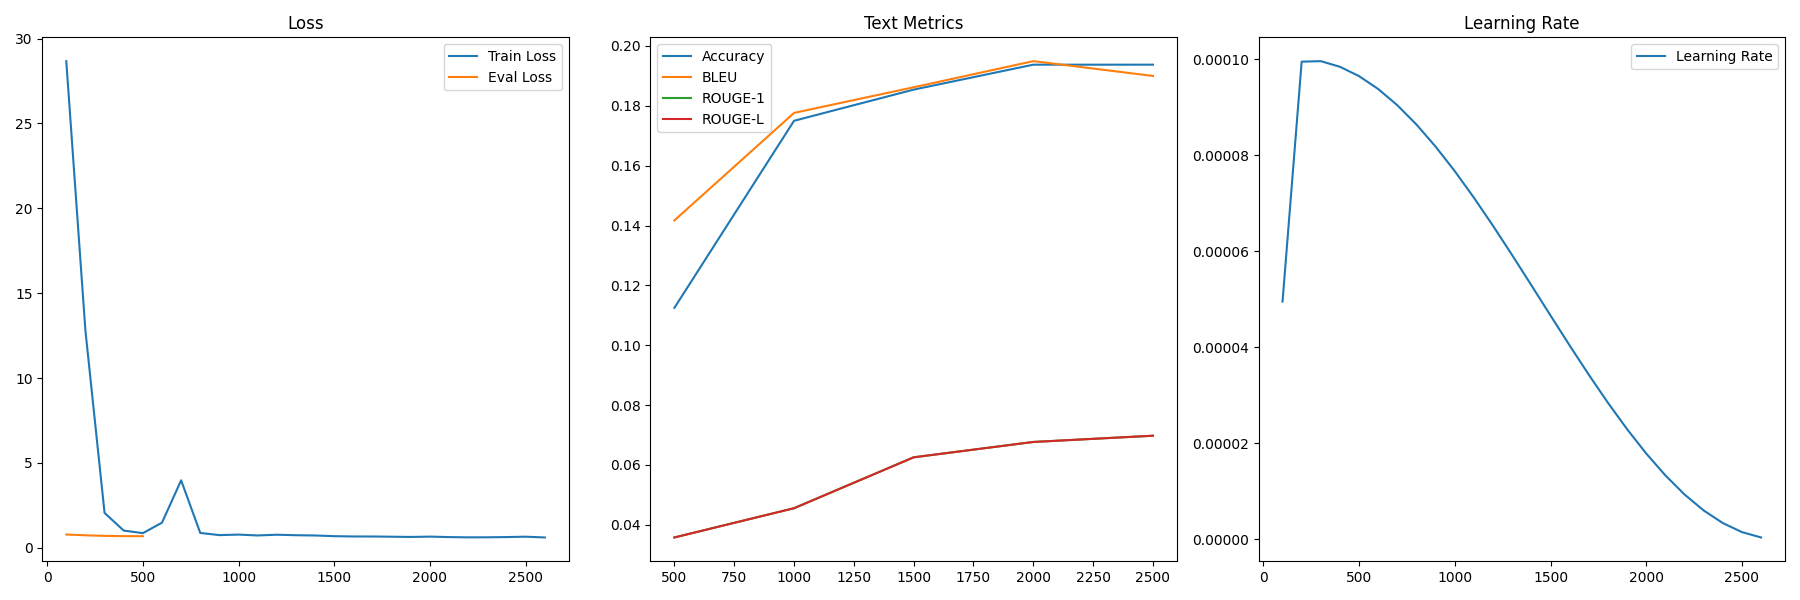
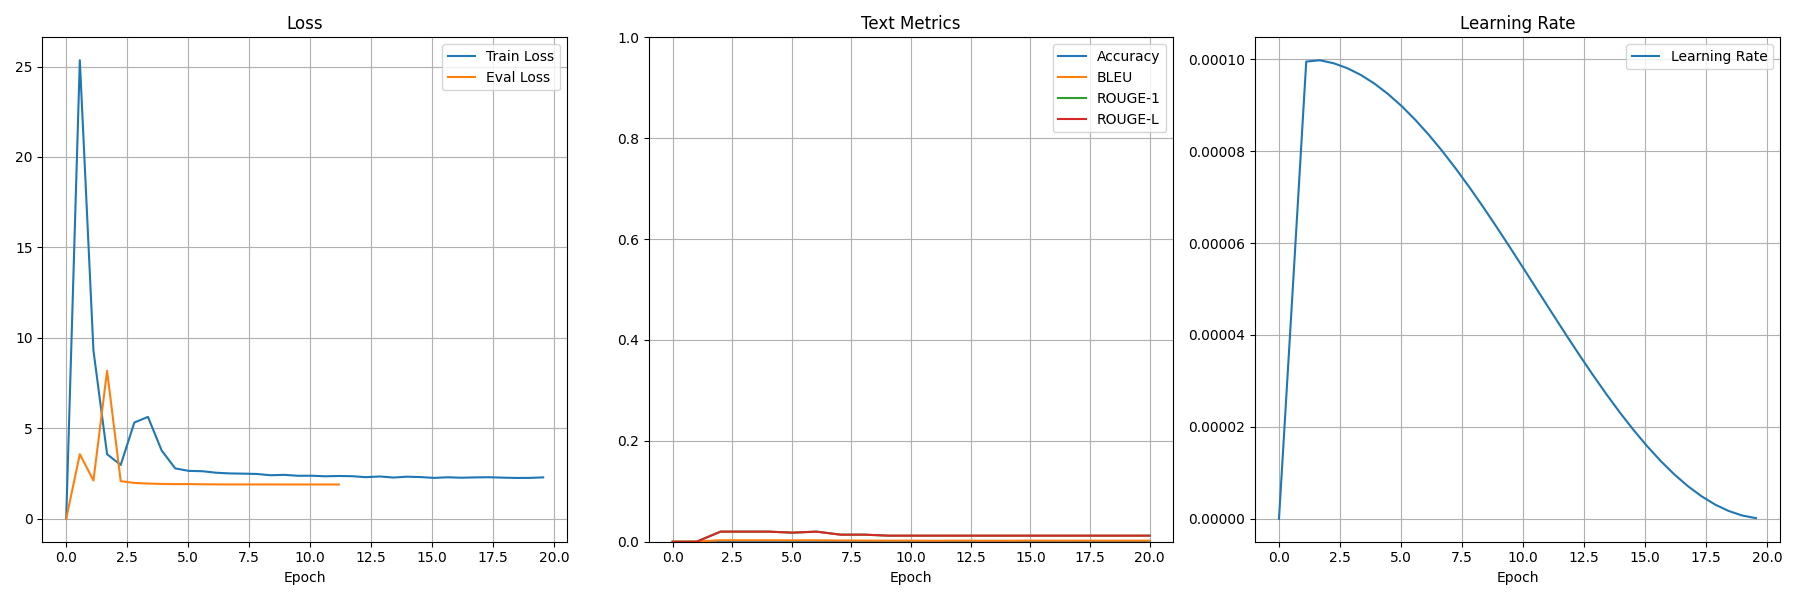
some changes

diff --git a/rework/testset.py b/rework/testset.py
@@ -1,0 +1,143 @@
+import json
+import random
+
+users = [
+    "Нет учётной записи в СЭД ТУСУР",
+    "Ошибка входа в систему",
+    "Требуется доступ к корпоративной почте",
+    "Не удаётся установить ПО MathCad",
+    "Проблемы с подключением к VPN",
+    "Не работает электронная подпись",
+    "Не могу скачать файлы с портала",
+    "Требуется продление лицензии Windows",
+    "Возникает ошибка 1004 при входе",
+    "Потерян доступ к ФДО ТУСУР",
+    "Забыли пароль от MS Office",
+    "Проблема с активацией Visual Studio",
+    "Требуется подключение к удалённому рабочему столу",
+    "Не отображается курс в ФДО",
+    "Ошибка при отправке документов",
+    "Вопрос по тарифу ПО",
+    "Сбой работы Outlook",
+    "Запросить доступ к базе данных",
+    "Установить новый принтер",
+    "Запросить сертификат безопасности",
+    "Проблема с авторизацией на сайте",
+    "Требуется доступ к Zoom",
+    "Ошибка обновления ПО",
+    "Требуется помощь с настройкой роутера",
+    "Не работает загрузка файлов",
+    "Проблемы с загрузкой домашнего задания",
+    "Проблема с лицензией на MathCad",
+    "Требуется новый аккаунт в системе",
+    "Перенос почты на другой сервер",
+    "Возникает ошибка при запуске 1С",
+    "Не приходит письмо с подтверждением",
+    "Проблема с подключением к Wi-Fi",
+    "Ошибка синхронизации календаря",
+    "Запрос на восстановление данных",
+    "Не открывается учебный материал",
+    "Требуется перенос данных между аккаунтами",
+    "Проблема с PDF-документом",
+    "Ошибка загрузки результатов экзамена",
+    "Проблема с доступом к облаку",
+    "Не удаётся активировать продукт",
+    "Вопрос по политике безопасности",
+    "Требуется консультация по ПО",
+    "Не работает кнопка отправки",
+    "Ошибка доступа к серверу",
+    "Сбросить настройки безопасности",
+    "Проблема с получением SMS-кода",
+    "Вопрос по работе портала",
+    "Требуется замена оборудования",
+    "Ошибка при установке драйвера",
+]
+
+answers = [
+    "Учетная запись создана, письмо с учетными данными выслано на почту: [EMAIL]",
+    "Ошибка устранена, попробуйте снова войти.",
+    "Доступ к почте предоставлен. Инструкция выслана на почту.",
+    "ПО MathCad установлено. Проверьте работоспособность.",
+    "Доступ к VPN открыт. Проверьте параметры подключения.",
+    "Настроена электронная подпись, можно пользоваться.",
+    "Возможность скачивания файлов восстановлена.",
+    "Лицензия Windows продлена на 1 год.",
+    "Ошибка 1004 исправлена, повторите попытку.",
+    "Доступ к ФДО восстановлен.",
+    "Пароль для MS Office отправлен на указанную почту.",
+    "Visual Studio активирована.",
+    "Доступ к удалённому рабочему столу предоставлен.",
+    "Курс теперь отображается в вашем аккаунте.",
+    "Отправка документов успешно настроена.",
+    "Вопрос по тарифу обработан, подробности отправлены.",
+    "Работа Outlook восстановлена.",
+    "Доступ к базе данных открыт.",
+    "Новый принтер установлен и готов к работе.",
+    "Сертификат безопасности выдан.",
+    "Авторизация на сайте восстановлена.",
+    "Доступ к Zoom предоставлен.",
+    "ПО успешно обновлено.",
+    "Роутер настроен, доступ к сети есть.",
+    "Загрузка файлов теперь работает корректно.",
+    "Загрузка домашнего задания восстановлена.",
+    "Лицензия на MathCad продлена.",
+    "Аккаунт в системе создан, детали на почте.",
+    "Перенос почты выполнен.",
+    "Ошибка при запуске 1С устранена.",
+    "Письмо с подтверждением отправлено повторно.",
+    "Wi-Fi подключение восстановлено.",
+    "Синхронизация календаря работает.",
+    "Данные восстановлены.",
+    "Учебный материал доступен для просмотра.",
+    "Данные перенесены между аккаунтами.",
+    "PDF-документ открыт без ошибок.",
+    "Результаты экзамена успешно загружены.",
+    "Доступ к облаку предоставлен.",
+    "Продукт активирован.",
+    "Информация по политике безопасности отправлена.",
+    "Консультация по ПО проведена.",
+    "Кнопка отправки работает.",
+    "Доступ к серверу восстановлен.",
+    "Настройки безопасности сброшены.",
+    "SMS-код отправлен повторно.",
+    "Вопрос по порталу обработан.",
+    "Оборудование заменено.",
+    "Драйвер установлен успешно.",
+]
+
+categories = [
+    "Электронный документооборот",
+    "1С",
+    "Техническая проблема на рабочем месте сотрудника",
+    "Автоматизированные информационные системы ТУСУРа",
+    "Не могу определитьНичего не подходит",
+    "Антиплагиат.ВУЗ",
+    "Получение лицензионного ПО",
+    "Получение корпоративной почты",
+    "Веб-ресурсы ТУСУР",
+    "Заявка на размещение публикаций",
+    "Предложения изменений в информационные системы",
+    "Мобильные приложения ТУСУР",
+]
+
+testset = []
+for i in range(500):
+    user_msg = random.choice(users)
+    answer = random.choice(answers)
+    cat = random.choice(categories)
+    ticket_id = 7000 + i  # Можно делать уникальные ID
+
+    testset.append(
+        {
+            "text": f"Категория: {cat}\nПользователь: {user_msg}\nОператор: ",
+            "label": answer,
+            "category_title": cat,
+            "ticket_id": ticket_id,
+        }
+    )
+
+# Сохраняем в файл (если нужно)
+with open("testset.json", "w", encoding="utf-8") as f:
+    json.dump(testset, f, ensure_ascii=False, indent=2)
+
+print("Готово! 500 синтетических тестовых объектов сгенерировано.")

diff --git a/rework/learn_rut5base.py b/rework/learn_rut5base.py
@@ -24,24 +24,24 @@ class LogCallback(TrainerCallback):
         self.tokenizer = tokenizer
         self.examples = raw_data[:5]
 
-    def on_step_end(self, args, state, control, **kwargs):
-        if state.global_step % 500 == 0:
-            print(f"\n=== Проверка модели на шаге {state.global_step} ===")
-            kwargs["model"].eval()
-            for ex in self.examples:
-                input_ids = self.tokenizer.encode(
-                    ex["text"], return_tensors="pt", max_length=256, truncation=True
-                ).to(kwargs["model"].device)
-                outputs = kwargs["model"].generate(
-                    input_ids,
-                    max_length=64,
-                    past_key_values=EncoderDecoderCache.from_legacy_cache(None),
-                )
-                answer = self.tokenizer.decode(outputs[0], skip_special_tokens=True)
-                print(f"\n[Категория]: {ex.get('category_title', 'нет')}")
-                print(f"[Входной текст]:\n{ex['text']}\n")
-                print(f"[Эталонный ответ]: {ex['label']}\n[Ответ модели]: {answer}\n")
-            kwargs["model"].train()
+    def on_evaluate(self, args, state, control, **kwargs):
+        print(f"\n=== Проверка модели на шаге {state.global_step} ===")
+        kwargs["model"].eval()
+        "Категория: {category}\nПользователь: {ticket_messages.get(ticket_id, '')}\n{dialogue}"
+        for ex in self.examples:
+            input_ids = self.tokenizer.encode(
+                ex["text"], return_tensors="pt", max_length=256, truncation=True
+            ).to(kwargs["model"].device)
+            outputs = kwargs["model"].generate(
+                input_ids,
+                max_length=64,
+                past_key_values=EncoderDecoderCache.from_legacy_cache(None),
+            )
+            answer = self.tokenizer.decode(outputs[0], skip_special_tokens=True)
+            print(f"\n[Категория]: {ex.get('category_title', 'нет')}")
+            print(f"[Входной текст]: {ex['text']}")
+            print(f"[Эталонный ответ]: {ex['label']}\n[Ответ модели]: {answer}\n")
+        kwargs["model"].train()
 
 
 class AccuracyCallback(TrainerCallback):
@@ -51,6 +51,7 @@ class AccuracyCallback(TrainerCallback):
         self.smooth = SmoothingFunction().method1
 
     def on_evaluate(self, args, state, control, **kwargs):
+        print(f"\nЭпоха {state.epoch} завершена!")
         model = kwargs["model"]
         eval_dataloader = kwargs["eval_dataloader"]
         model.eval()
@@ -155,21 +156,35 @@ def preprocess(example):
 
 # === Основной блок ===
 if __name__ == "__main__":
-    with open("dialogue_dataset.json", encoding="utf-8") as f:
-        raw_data = json.load(f)
+    # Загрузить тестовый датасет из файла
+    with open("testset.json", encoding="utf-8") as f:
+        test_data_raw = json.load(f)
 
-    dataset_for_callback = [
+    # with open("dialogue_dataset.json", encoding="utf-8") as f:
+    with open("cleaned_dialogue_dataset.json", encoding="utf-8") as f:
+        train_data_raw = json.load(f)
+
+    test_data = [
         {
-            "text": f"Категория: {d.get('category_title', 'неизвестно')}\n{d['text']}",
+            "text": f"{d['text']}",
             "label": clean_label(d["label"]),
             "category_title": d.get("category_title", "неизвестно"),
         }
-        for d in raw_data
+        for d in test_data_raw
     ]
 
-    raw_dataset = Dataset.from_list(dataset_for_callback).train_test_split(
-        test_size=0.1
-    )
+
+    train_data = [
+        {
+            "text": f"{d['text']}",
+            "label": clean_label(d["label"]),
+            "category_title": d.get("category_title", "неизвестно"),
+        }
+        for d in train_data_raw
+    ]
+
+    train_dataset = Dataset.from_list(train_data)
+    test_dataset = Dataset.from_list(test_data)
 
     model = T5ForConditionalGeneration.from_pretrained("cointegrated/rut5-base")
     tokenizer = T5Tokenizer.from_pretrained("cointegrated/rut5-base", legacy=False)
@@ -179,9 +194,11 @@ if __name__ == "__main__":
     max_input = 256
     max_output = 64
 
-    tokenized_dataset = raw_dataset.map(
-        preprocess, remove_columns=raw_dataset["train"].column_names
+    tokenized_train = train_dataset.map(
+        preprocess, remove_columns=train_dataset.column_names
     )
+    tokenized_test = test_dataset.map(preprocess, remove_columns=test_dataset.column_names)
+
 
     training_args = Seq2SeqTrainingArguments(
         output_dir="./rut5base-finetuned",
@@ -195,11 +212,10 @@ if __name__ == "__main__":
         lr_scheduler_type="cosine",
         warmup_steps=200,
         logging_steps=100,
-        save_steps=500,
+        save_strategy="epoch",
         save_total_limit=3,
-        eval_strategy="steps",
+        eval_strategy="epoch",
         do_eval=True,
-        eval_steps=500,
         logging_dir="./runs",
         fp16=False,
         bf16=False,
@@ -212,13 +228,14 @@ if __name__ == "__main__":
     trainer = Seq2SeqTrainer(
         model=model,
         args=training_args,
-        train_dataset=tokenized_dataset["train"],
-        eval_dataset=tokenized_dataset["test"],
+        train_dataset=tokenized_train,
+        # eval_dataset=tokenized_test,
+        eval_dataset=tokenized_train,
         data_collator=data_collator,
         callbacks=[
-        LogCallback(tokenizer, dataset_for_callback),
-        AccuracyCallback(tokenizer),
-    ],
+            LogCallback(tokenizer, train_data),
+            AccuracyCallback(tokenizer),
+        ],
     )
 
     trainer.train()

diff --git a/rework/extract_data.py b/rework/extract_data.py
@@ -129,23 +129,46 @@ if __name__ == "__main__":
 
     dataset = []
     for ticket_id, messages in ticket_dialogs.items():
-        last = messages[-1]
-        if last["role"] == "Оператор":
-            dialogue = "\n".join(
-                [f"{m['role']}: {m['message']}" for m in messages[:-1]]
-            )
-            category = ticket_categories.get(ticket_id, "неизвестно")
-            full_text = f"Категория: {category}\nПользователь: {ticket_messages.get(ticket_id, '')}\n{dialogue}Оператор: {last['message']}"
-            dataset.append(
-                {
-                    "text": full_text,
-                    "label": last["message"],
-                    "category_title": category,
-                    "ticket_id": ticket_id,
-                }
-            )
+        # Ищем последний ответ оператора с конца
+        idx = len(messages) - 1
+        while idx >= 0 and messages[idx]["role"] != "Оператор":
+            idx -= 1
+        if idx < 0:
+            continue  # Нет ответа оператора вообще
+        last_operator_msg = messages[idx]
+
+        # Формируем диалог до этого ответа
+        dialogue = "\n".join([f"{m['role']}: {m['message']}" for m in messages[:idx]])
+        category = ticket_categories.get(ticket_id, "неизвестно")
+        full_text = f"Категория: {category}\nПользователь: {ticket_messages.get(ticket_id, '')}\n{dialogue}Оператор: "
+
+        dataset.append(
+            {
+                "text": full_text,
+                "label": last_operator_msg["message"],
+                "category_title": category,
+                "ticket_id": ticket_id,
+            }
+        )
 
     with open("dialogue_dataset.json", "w", encoding="utf-8") as f:
         json.dump(dataset, f, ensure_ascii=False, indent=2)
 
     print(f"✅ Сохранено {len(dataset)} диалогов в dialogue_dataset.json")
+
+    with open("dialogue_dataset.json", encoding="utf-8") as f:
+        raw_data = json.load(f)
+
+    unique_labels = set()
+    cleaned_data = []
+    for d in raw_data:
+        label = clean_text(d["label"])
+        if label not in unique_labels:
+            unique_labels.add(label)
+            d["label"] = label
+            cleaned_data.append(d)
+        # else:
+        #     print(f"id: {d['ticket_id']}\nОтвет: {label}")
+    with open("cleaned_dialogue_dataset.json", "w", encoding="utf-8") as f:
+        json.dump(cleaned_data, f, ensure_ascii=False, indent=2)
+    print(f"Было {len(raw_data)} примеров, стало {len(cleaned_data)} уникальных label.")
